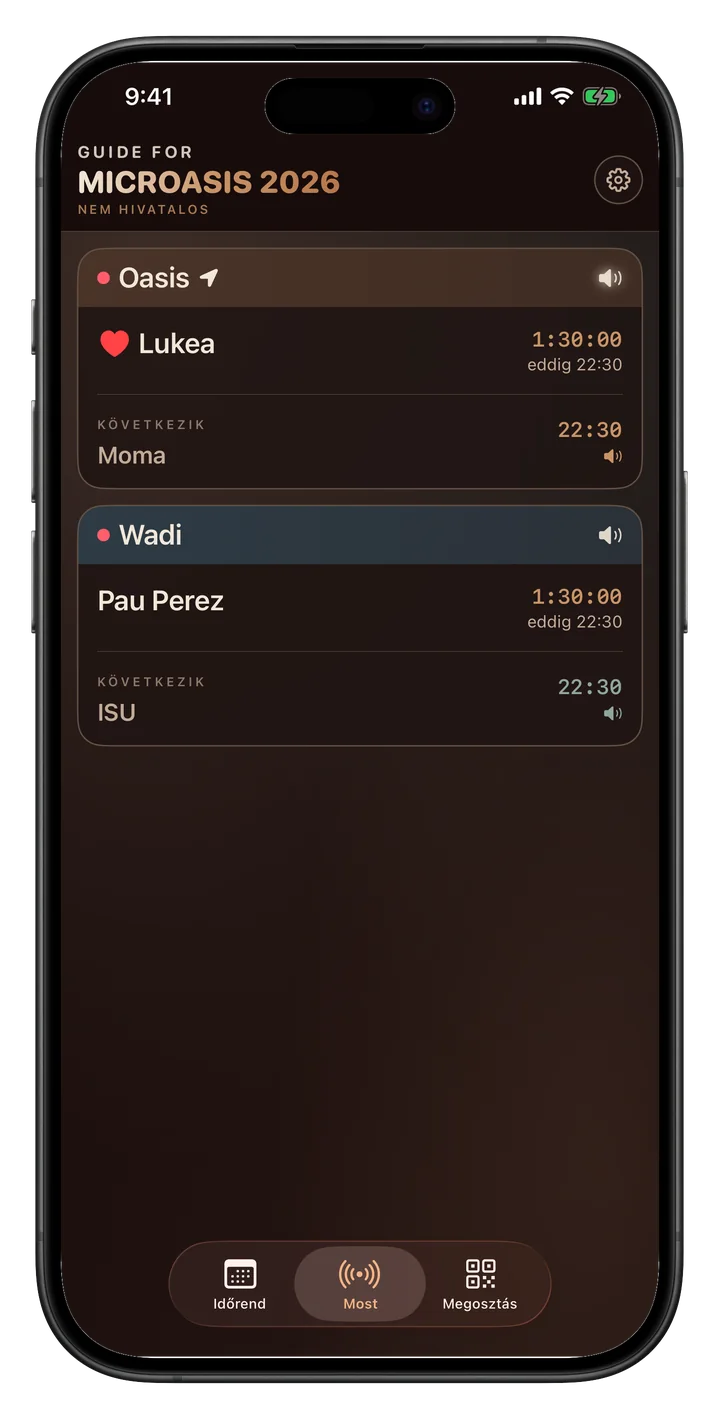
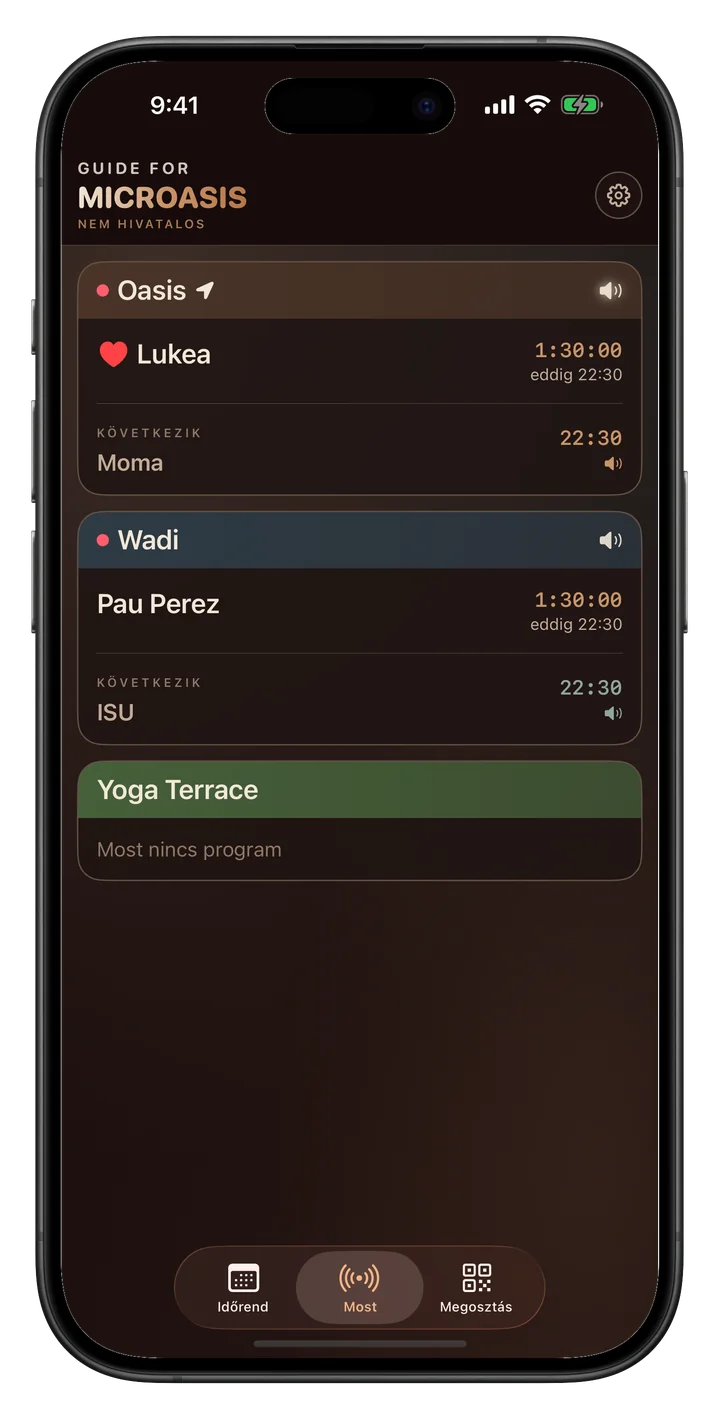
fix(web): rebuild the landing images from the current screenshots
The /app showcase does not serve apple/screenshots/ directly — it serves
device-framed webp copies under public/landing/framed/, produced by a
separate build step. Regenerating the raw captures for the App Store left
that step unrun, so the landing kept the 08-12 images: the old two-line
wordmark, and the widget shot whose favorite heart was pinned to a slug
that no longer exists after the Maron/Route 8 swap.

LANDING_IMG_V is bumped by the generator, so the stable filenames come
back fresh without a service-worker version bump.

Changed region(s): [[0.0611, 0.062, 0.9167, 0.6202], [0.3056, 0.8682, 0.7028, 0.9612], [0.6722, 0.062, 0.8556, 0.093]]

diff --git a/pwa/lib/landing-version.ts b/pwa/lib/landing-version.ts
@@ -1,3 +1,3 @@
 // AUTO-GENERATED by pwa/scripts/build_landing_images.py — cache-busts the
 // framed landing images (their filenames are stable) on every regeneration.
-export const LANDING_IMG_V = "1786538291";
+export const LANDING_IMG_V = "1786892662";
